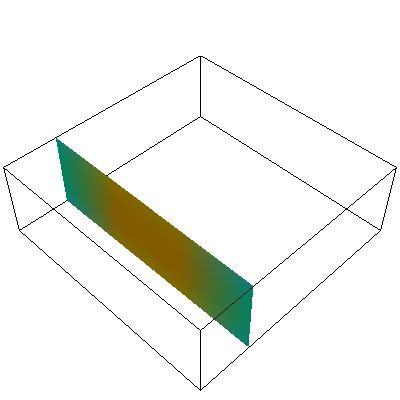
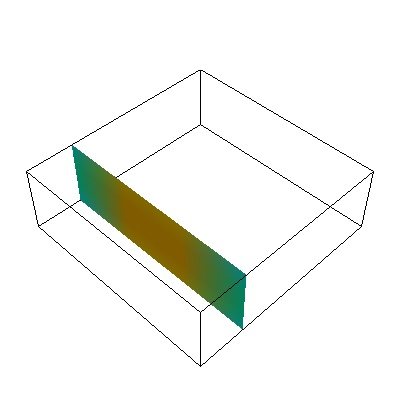
Updated the guide and fixed a minor bug with the use of the Camera.

diff --git a/doc/user/pyvisi.tex b/doc/user/pyvisi.tex
@@ -233,7 +233,7 @@ Including methods from \ActorTwoD.
 
 \subsection{Data Visualization Classes}
 This subsection details the instances used to process and manipulate the source
-data.
+data. The typical usage of the classes is also shown. 
 
 One point to note is that the source can either be point or cell data. If the
 source is cell data, a conversion to point data may or may not be
@@ -253,8 +253,7 @@ can either be colored or grey-scaled, depending on the lookup table used.
 The following are some of the methods available:\\
 Methods from \ActorThreeD.
 
-A typical usage of \Map is shown below, which can be found in 
-\texttt{\PyvisiExampleDirectory}.
+A typical usage of \Map is shown below.
 
 \begin{python}
 # Import the necessary modules.
@@ -359,7 +358,7 @@ Methods from \ActorThreeD, \GlyphThreeD and \MaskPoints.
 
 \subsubsection{\VelocityOnPlaneCut class}
 
-\begin{classdesc}{VelocityOnPlaneCut}{scene, data_collector, 
+\begin{classdesc}{VelocityOnPlaneCut}{scene, data_collector,
 arrow = Arrow.TWO_D, color_mode = ColorMode.VECTOR, 
 viewport = Viewport.SOUTH_WEST, lut = Lut.COLOR, 
 cell_to_point = False, outline = True}
@@ -370,8 +369,7 @@ it shows a vector field using arrows cut using a plane.
 The following are some of the methods available:\\
 Methods from \ActorThreeD, \GlyphThreeD, \Transform and \MaskPoints. 
 
-A typical usage of \VelocityOnPlaneCut is shown below, which can be found in 
-\texttt{\PyvisiExampleDirectory}.
+A typical usage of \VelocityOnPlaneCut is shown below.
 
 \begin{python}
 # Import the necessary modules
@@ -469,8 +467,7 @@ The following are some of the methods available:\\
 Methods from \ActorThreeD, \Sphere, \TensorGlyph, \Transform, \Clipper 
 and \MaskPoints.
 
-A typical usage of \EllipsoidOnPlaneClip is shown below, which can be found in 
-\texttt{\PyvisiExampleDirectory}.
+A typical usage of \EllipsoidOnPlaneClip is shown below.
 
 \begin{python}
 # Import the necessary modules
@@ -527,8 +524,7 @@ class can also be used to generate iso surfaces.
 The following are some of the methods available:\\
 Methods from \ActorThreeD and \ContourModule. 
 
-A typical usage of \Contour is shown below, which can be found in 
-\texttt{\PyvisiExampleDirectory}.
+A typical usage of \Contour is shown below.
 
 \begin{python}
 # Import the necessary modules
@@ -606,8 +602,7 @@ modes, either using vector data or scalar data.
 The following are some of the methods available:\\
 Methods from \ActorThreeD, \PointSource, \StreamLineModule and \Tube. 
 
-A typical usage of \StreamLine is shown below, which can be found in 
-\texttt{\PyvisiExampleDirectory}.
+A typical usage of \StreamLine is shown below.
 
 \begin{python}
 # Import the necessary modules.
@@ -661,8 +656,7 @@ Similarly, the plane can be deformated either using scalar data or vector data.
 The following are some of the methods available:\\
 Methods from \ActorThreeD, \Warp and \Transform.
 
-A typical usage of \Carpet is shown below, which can be found in 
-\texttt{\PyvisiExampleDirectory}.
+A typical usage of \Carpet is shown below.
 
 \begin{python}
 # Import the necessary modules.
@@ -707,14 +701,14 @@ s.render(PYVISI_EXAMPLE_IMAGES_PATH + IMAGE_NAME)
 
 \begin{classdesc}{Image}{scene, image_reader, viewport = Viewport.SOUTH_WEST}
 Class that displays an image which can be scaled (upwards and downwards). The 
-image can also be translated and rotated along the X, Y and Z axes.
+image can also be translated and rotated along the X, Y and Z axes. One of 
+the most common use of this feature is pasting an image on a surface map.
 \end{classdesc}
 
 The following are some of the methods available:\\
 Methods from \ActorThreeD, \PlaneSource and \Transform.
 
-A typical usage of \Image is shown below, which can be found in 
-\texttt{\PyvisiExampleDirectory}.
+A typical usage of \Image is shown below.
 
 \begin{python}
 # Import the necessary modules.
@@ -971,36 +965,149 @@ Mask every nth point.
 Enables the randomization of the points selected for masking.
 \end{methoddesc}
 
-\section{Online Rendering Mechnism}
 
-%\begin{table}
-%\begin{tabular}{c c c}
-%\includegraphics[width=\thumbnailwidth]{figures/Map} &
-%\includegraphics[width=\thumbnailwidth]{figures/MapOnPlaneCut} &
-%\includegraphics[width=\thumbnailwidth]{figures/MapOnPlaneClip} \\
-%1 & 2 & 3 \\
-%\includegraphics[width=\thumbnailwidth]{figures/MapOnScalarClip}  \\
-%4
-%\end{tabular}
-%\end{table}
+% ############################################################################
 
 
+\section{Sample Output}
+The following section displays a list of sample outputs.  
+
+\begin{table}[h]
+\begin{tabular}{c c c}
+\includegraphics[width=\thumbnailwidth]{figures/Map} &
+\includegraphics[width=\thumbnailwidth]{figures/MapOnPlaneCut} &
+\includegraphics[width=\thumbnailwidth]{figures/MapOnPlaneClip} \\
+Map & MapOnPlaneCut & MapOnPlaneClip \\
+\includegraphics[width=\thumbnailwidth]{figures/MapOnScalarClip} & 
+\includegraphics[width=\thumbnailwidth]{figures/Velocity} & 
+\includegraphics[width=\thumbnailwidth]{figures/VelocityOnPlaneCut}  \\
+MapOnScalarClip & Velocity & VelocityOnPlaneCut \\
+\includegraphics[width=\thumbnailwidth]{figures/VelocityOnPlaneClip} & 
+\includegraphics[width=\thumbnailwidth]{figures/Ellipsoid} & 
+\includegraphics[width=\thumbnailwidth]{figures/EllipsoidOnPlaneCut}  \\
+VelocityOnPlaneClip & Ellipsoid & EllipsoidOnPlaneCut \\
+\includegraphics[width=\thumbnailwidth]{figures/EllipsoidOnPlaneClip} & 
+\includegraphics[width=\thumbnailwidth]{figures/Contour} & 
+\includegraphics[width=\thumbnailwidth]{figures/ContourOnPlaneCut}  \\
+EllipsoidOnPlaneClip & Contour & ContourOnPlaneCut \\
+\includegraphics[width=\thumbnailwidth]{figures/ContourOnPlaneClip} & 
+\includegraphics[width=\thumbnailwidth]{figures/StreamLine} & 
+\includegraphics[width=\thumbnailwidth]{figures/Carpet}  \\
+ContourOnPlaneClip & StreamLine & Carpet \\
+\end{tabular}
+\caption{Sample output}
+\end{table}
 
 
+% ############################################################################# 
 
 
+\section{Complex Examples}
+The following scripts show some of the more complex examples.
+
+\textsf{Reading A Series of Files}
+
+\begin{python}
+# Import the necessary modules.
+from esys.pyvisi import Scene, DataCollector, Contour, Camera 
+from esys.pyvisi.constant import *
+
+PYVISI_EXAMPLE_MESHES_PATH = "data_meshes/"
+PYVISI_EXAMPLE_IMAGES_PATH = "data_sample_images/"
+X_SIZE = 400
+Y_SIZE = 300
+
+SCALAR_FIELD_POINT_DATA_1 = "lava"
+SCALAR_FIELD_POINT_DATA_2 = "talus"
+FILE_2D = "phi_talus_lava."
+FIRST_FILE_NAME = "phi_talus_lava.0099.vtu"
+
+IMAGE_NAME = "seriesofreads"
+JPG_RENDERER = Renderer.ONLINE_JPG
 
 
-%\begin{tabular}{c c c c}
-%\includegraphics[scale = 0.1]{figures/EscriptDiagram1} & 
-%\includegraphics[scale = 0.1]{figures/EscriptDiagram1} & 
-%\includegraphics[scale = 0.1]{figures/EscriptDiagram1} & 
-%\includegraphics[scale = 0.1]{figures/EscriptDiagram1} \\ 
-%1 & 2 & 3 & 4
-%\end{tabular}
+# Create a Scene.
+s = Scene(renderer = JPG_RENDERER, num_viewport = 1, x_size = X_SIZE, 
+        y_size = Y_SIZE)
+
+# Create a DataCollector reading from a XML file. An initial file must always
+# be assigned when the DataCollector is created, although the same file is 
+# read again in the for-loop.   
+dc1 = DataCollector(source = Source.XML)
+dc1.setFileName(file_name = PYVISI_EXAMPLE_MESHES_PATH + FIRST_FILE_NAME)
+dc1.setActiveScalar(scalar = SCALAR_FIELD_POINT_DATA_1)
+
+# Create a Contour.
+mosc1 = Contour(scene = s, data_collector = dc1, 
+        viewport = Viewport.SOUTH_WEST, lut = Lut.COLOR, cell_to_point = False,
+        outline = True)
+mosc1.generateContours(0)
+
+# Create a second DataCollector reading from the same XML file. An initial 
+# file must always be assigned when the DataCollector is created, 
+# although the same file is read again in the for-loop.   
+dc2 = DataCollector(source = Source.XML)
+dc2.setFileName(file_name = PYVISI_EXAMPLE_MESHES_PATH + FIRST_FILE_NAME)
+dc2.setActiveScalar(scalar = SCALAR_FIELD_POINT_DATA_2)
+
+# Create a second Contour.
+mosc2 = Contour(scene = s, data_collector = dc2, 
+        viewport = Viewport.SOUTH_WEST, lut = Lut.COLOR, cell_to_point = False,
+        outline = True)
+mosc2.generateContours(0)
+
+# Read in one file one after another and render the object. 
+for i in range(99, 104):
+    dc1.setFileName(file_name =  PYVISI_EXAMPLE_MESHES_PATH + FILE_2D +
+	        "%04d.vtu" % i)
+    dc1.setActiveScalar(scalar = SCALAR_FIELD_POINT_DATA_1)
+    dc2.setFileName(file_name =  PYVISI_EXAMPLE_MESHES_PATH + FILE_2D +
+	        "%04d.vtu" % i)
+    dc2.setActiveScalar(scalar = SCALAR_FIELD_POINT_DATA_2)
+
+    s.render(PYVISI_EXAMPLE_IMAGES_PATH + IMAGE_NAME + "%04d.jpg" % i)
+\end{python}
+
+\textsf{Manipulating A Single File with A Series of Translation}
+
+\begin{python}
+# Import the necessary modules.
+from esys.pyvisi import Scene, DataCollector, MapOnPlaneCut, Camera
+from esys.pyvisi.constant import *
+
+PYVISI_EXAMPLE_MESHES_PATH = "data_meshes/"
+PYVISI_EXAMPLE_IMAGES_PATH = "data_sample_images/"
+X_SIZE = 400
+Y_SIZE = 400
+
+SCALAR_FIELD_POINT_DATA = "temperature"
+FILE_3D = "interior_3D.xml"
+IMAGE_NAME = "seriesofcuts"
+JPG_RENDERER = Renderer.ONLINE_JPG
 
 
-same word on rendering, off-line, on-line, how to rotate, zoom, close the window, ...
+# Create a Scene.
+s = Scene(renderer = JPG_RENDERER, num_viewport = 1, x_size = X_SIZE, 
+        y_size = Y_SIZE)
 
-%==============================================
-\section{How to Make a Movie}
+# Create a DataCollector reading from a XML file.
+dc1 = DataCollector(source = Source.XML)
+dc1.setFileName(file_name = PYVISI_EXAMPLE_MESHES_PATH + FILE_3D)
+dc1.setActiveScalar(scalar = SCALAR_FIELD_POINT_DATA)
+
+# Create a MapOnPlaneCut.
+mopc1 = MapOnPlaneCut(scene = s, data_collector = dc1, 
+        viewport = Viewport.SOUTH_WEST, lut = Lut.COLOR, cell_to_point = False,
+        outline = True)
+mopc1.setPlaneToYZ(offset = 0.1)
+
+# Create a Camera.
+c1 = Camera(scene = s, data_collector = dc1, viewport = Viewport.SOUTH_WEST)
+c1.isometricView()
+
+# Render the object with multiple cuts from a series of translation.
+for i in range(0, 5):
+    s.render(PYVISI_EXAMPLE_IMAGES_PATH + IMAGE_NAME + "%02d.jpg" % i)
+    mopc1.translate(0.6,0,0)
+\end{python}
+

diff --git a/doc/examples/pyvisi/seriesofreads.py b/doc/examples/pyvisi/seriesofreads.py
@@ -20,7 +20,9 @@ JPG_RENDERER = Renderer.ONLINE_JPG
 s = Scene(renderer = JPG_RENDERER, num_viewport = 1, x_size = X_SIZE, 
         y_size = Y_SIZE)
 
-# Create a DataCollector reading from a XML file.
+# Create a DataCollector reading from a XML file. An initial file must always
+# be assigned when the DataCollector is created, although the same file is 
+# read again in the for-loop.   
 dc1 = DataCollector(source = Source.XML)
 dc1.setFileName(file_name = PYVISI_EXAMPLE_MESHES_PATH + FIRST_FILE_NAME)
 dc1.setActiveScalar(scalar = SCALAR_FIELD_POINT_DATA_1)
@@ -31,7 +33,9 @@ mosc1 = Contour(scene = s, data_collector = dc1,
         outline = True)
 mosc1.generateContours(0)
 
-# Create a second DataCollector reading from the same XML file.
+# Create a second DataCollector reading from the same XML file. An initial 
+# file must always be assigned when the DataCollector is created, 
+# although the same file is read again in the for-loop.   
 dc2 = DataCollector(source = Source.XML)
 dc2.setFileName(file_name = PYVISI_EXAMPLE_MESHES_PATH + FIRST_FILE_NAME)
 dc2.setActiveScalar(scalar = SCALAR_FIELD_POINT_DATA_2)
@@ -42,7 +46,7 @@ mosc2 = Contour(scene = s, data_collector = dc2,
         outline = True)
 mosc2.generateContours(0)
 
-# Render the object. 
+# Read in one file one after another and render the object. 
 for i in range(99, 104):
     dc1.setFileName(file_name =  PYVISI_EXAMPLE_MESHES_PATH + FILE_2D +
 	        "%04d.vtu" % i)

diff --git a/doc/examples/pyvisi/image.py b/doc/examples/pyvisi/image.py
@@ -1,5 +1,5 @@
 # Import the necessary modules.
-from esys.pyvisi import Scene, DataCollector, Map, ImageReader, Image
+from esys.pyvisi import Scene, DataCollector, Map, ImageReader, Image, Camera
 from esys.pyvisi import GlobalPosition
 from esys.pyvisi.constant import *
 
@@ -36,6 +36,9 @@ i.setOpacity(opacity = 0.9)
 i.translate(0,0,-1)
 i.setPoint1(GlobalPosition(2,0,0))
 i.setPoint2(GlobalPosition(0,2,0))
+
+# Create a Camera. 
+c1 = Camera(scene = s, data_collector = dc1, viewport = Viewport.SOUTH_WEST)
 
 # Render the object.
 s.render(PYVISI_EXAMPLE_IMAGES_PATH + SAVE_IMAGE_NAME)

diff --git a/doc/examples/pyvisi/map.py b/doc/examples/pyvisi/map.py
@@ -42,5 +42,8 @@ dc2.setActiveScalar(scalar = SCALAR_FIELD_CELL_DATA)
 m2 = Map(scene = s, data_collector = dc2, viewport = Viewport.NORTH_EAST, 
         lut = Lut.COLOR, cell_to_point = True, outline = True)
 
+# Create a Camera for the third viewport
+c1 = Camera(scene = s, data_collector = dc1, viewport = Viewport.NORTH_EAST)
+
 # Render the object.
 s.render(PYVISI_EXAMPLE_IMAGES_PATH + IMAGE_NAME)

diff --git a/doc/user/guide_defs.tex b/doc/user/guide_defs.tex
@@ -136,7 +136,6 @@
 \newcommand{\PlaneSource}{\class{PlaneSource}\xspace}
 \newcommand{\Image}{\class{Image}\xspace}
 \newcommand{\Position}{\class{Position}\xspace}
-\newcommand{\PyvisiExampleDirectory}{/trunk/doc/examples/pyvisi/}
 \newcommand{\thumbnailwidth}{50mm}
 
 % default width for figures

diff --git a/pyvisi/py_src/examples/seriesofcutsonline.py b/pyvisi/py_src/examples/seriesofcutsonline.py
@@ -23,5 +23,5 @@ c1.isometricView()
 
 # Animate multiple cuts from the translation.
 for i in range(0, 60):
-    s.animate()
+    s.render()
     mopc1.translate(0.05,0,0)
